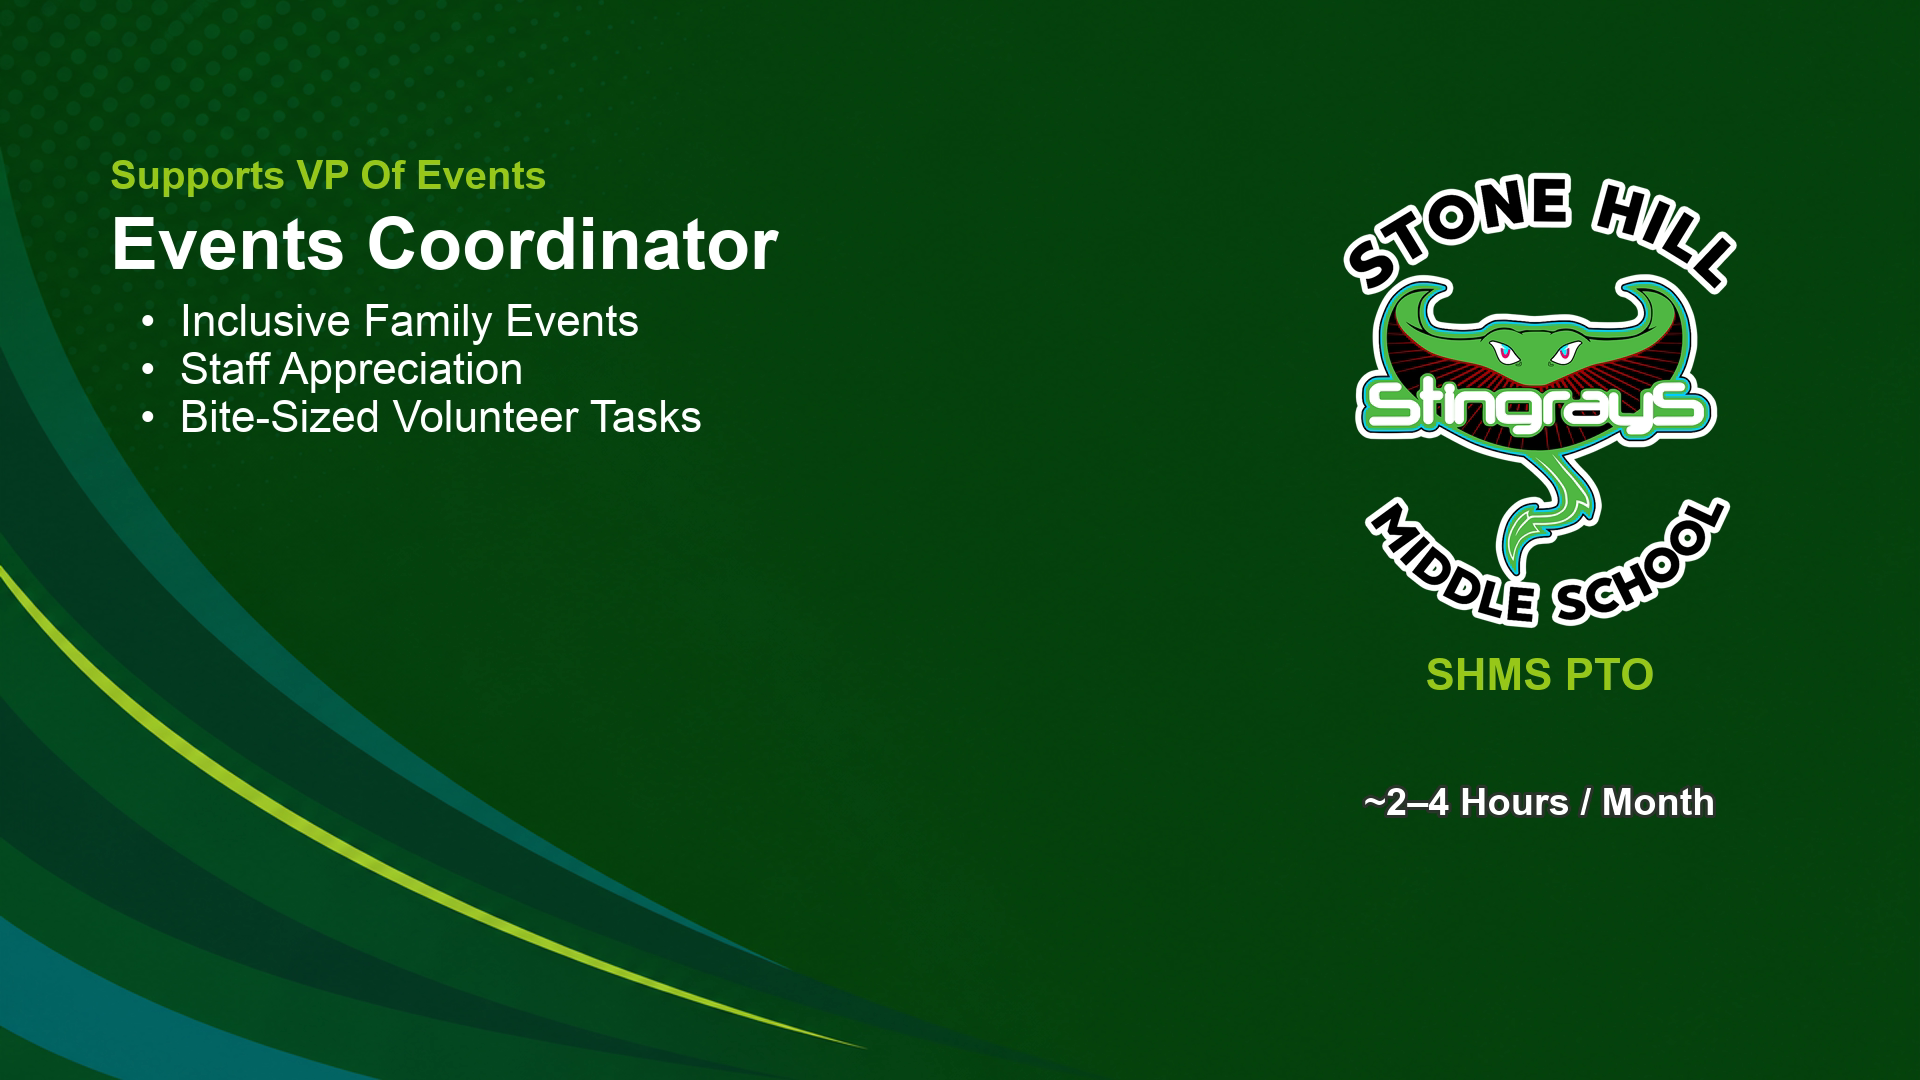
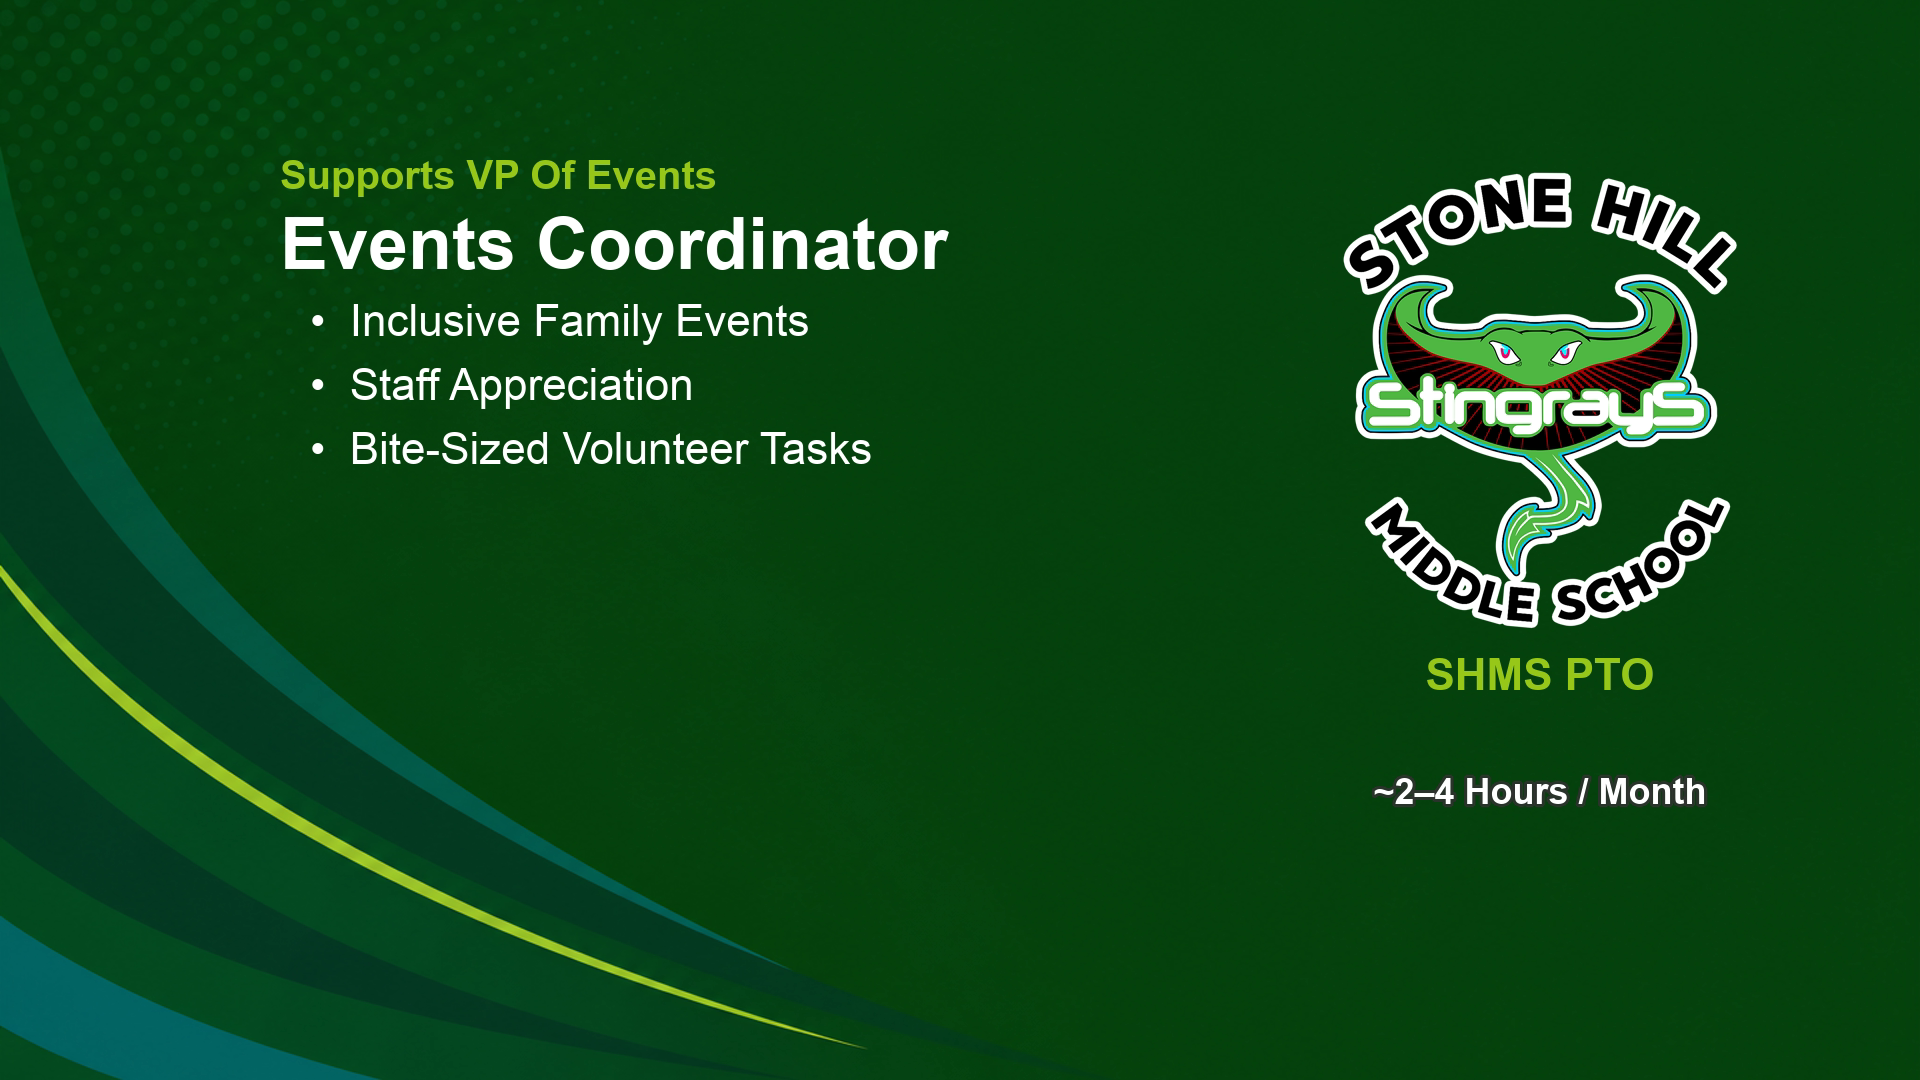
fix(board-recruit): real bullet spacing; wrap commitment under seal.
Stop stacking list lines and keep hour/commitment footers inside the frame.

Changed region(s): [[0.0625, 0.1528, 0.5, 0.4278], [0.6875, 0.7028, 0.9062, 0.7639]]

diff --git a/promo-videos/scripts/assemble_board_recruit.js b/promo-videos/scripts/assemble_board_recruit.js
@@ -54,21 +54,23 @@ const TAIL_PAD = 1.2;
  * Universal type scale — same sizes on every slide (no per-slide scaling).
  * Sized so the densest slide (5 bullets) still clears the wave crest.
  */
-const TEXT_X = 110;
-const BULLET_X = 140;
+/** Mid-left column — room for real bullet gaps without sitting on waves */
+const TEXT_X = 280;
+const BULLET_X = 310;
 const TYPE_EYEBROW = 40;
 const TYPE_TITLE = 72;
 const TYPE_BULLET = 44;
 const TYPE_BRAND = 44;
-const TYPE_FOOTER = 38;
+const TYPE_FOOTER = 36;
 const STEP_EYEBROW = 56;
 const STEP_TITLE = 88;
-const STEP_BULLET = 48;
-/** Bottom of glyphs must stay above this (wave crest at TEXT_X≈110) */
-const WAVE_SAFE_MAX_Y = 540;
+const STEP_BULLET = 64; // ~20px air between lines
+const STEP_FOOTER = 44;
+/** Glyph bottoms clear wave crest at this TEXT_X */
+const WAVE_SAFE_MAX_Y = 680;
 const CONTENT_MAX_Y = WAVE_SAFE_MAX_Y;
-/** Commitment under seal — dropped for breathing room below SHMS PTO */
-const FOOTER_Y = LABEL_Y + 130;
+/** Commitment under seal — breathing room below SHMS PTO */
+const FOOTER_Y = LABEL_Y + 120;
 
 const BEATS = [
   { part: 'vo/_parts/board_p01_open.m4a', still: 'assets/board-recruit/slide_open.png', caption: 'Five Board Seats Open' },
@@ -158,12 +160,21 @@ function makeSlide(outName, { eyebrow, title, bullets = [], footer }) {
     y += STEP_BULLET;
   }
   if (footer) {
-    const tag = `v${n++}`;
-    parts.push(
-      `[${last}]drawtext=fontfile=${fontB}:text='${esc(footer)}':fontsize=${TYPE_FOOTER}:fontcolor=white:` +
-      `borderw=3:bordercolor=black@0.8:x=${LOGO_CX}-text_w/2:y=${FOOTER_Y}[${tag}]`
-    );
-    last = tag;
+    // Two lines under seal when · present — keeps commitment inside the frame
+    const s = String(footer);
+    const lines = s.includes(' · ')
+      ? (() => { const [a, ...rest] = s.split(' · '); return [a, rest.join(' · ')]; })()
+      : [s];
+    let fy = FOOTER_Y;
+    for (const line of lines) {
+      const tag = `v${n++}`;
+      parts.push(
+        `[${last}]drawtext=fontfile=${fontB}:text='${esc(line)}':fontsize=${TYPE_FOOTER}:fontcolor=white:` +
+        `borderw=3:bordercolor=black@0.8:x=${LOGO_CX}-text_w/2:y=${fy}[${tag}]`
+      );
+      last = tag;
+      fy += STEP_FOOTER;
+    }
   }
 
   run([
